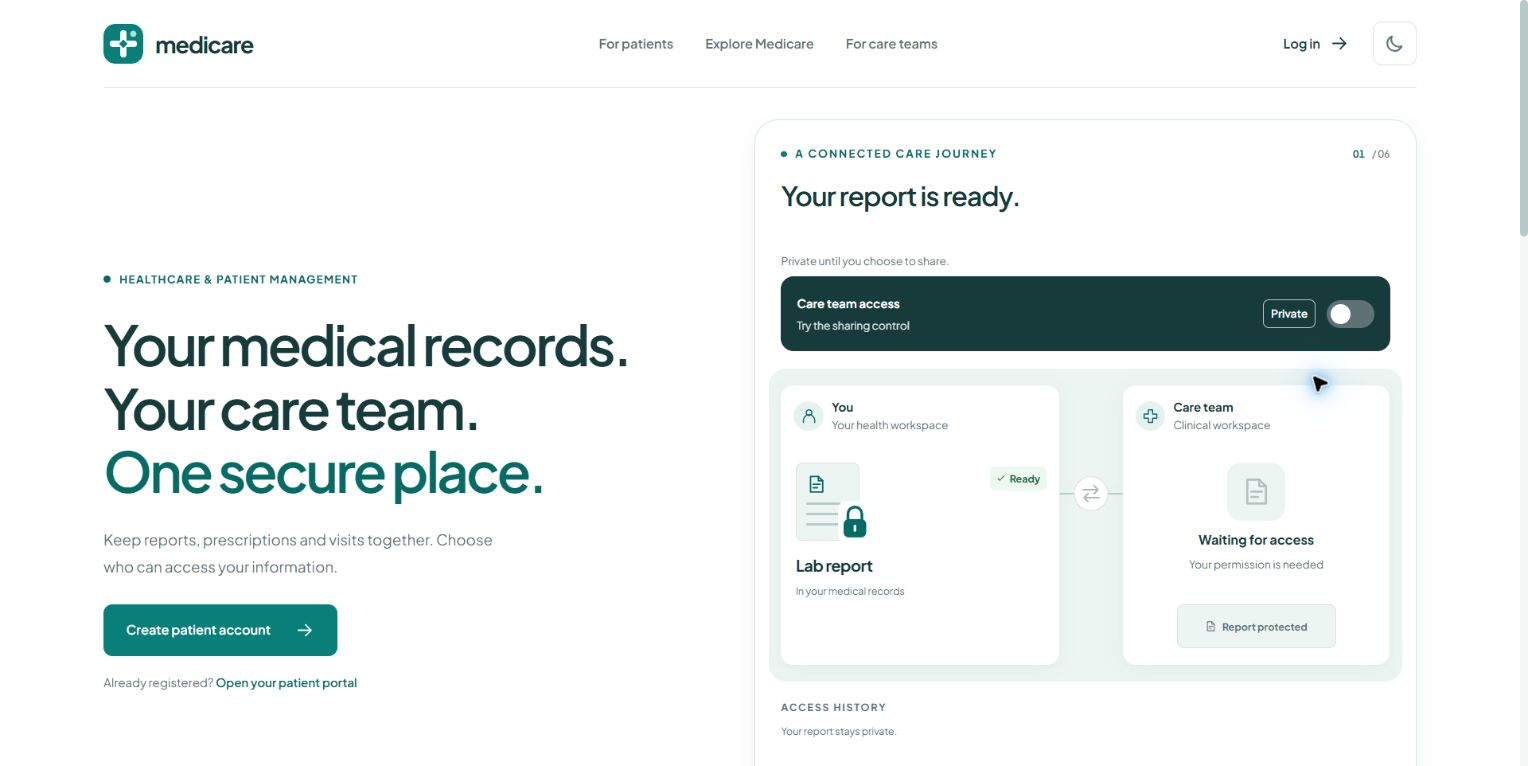
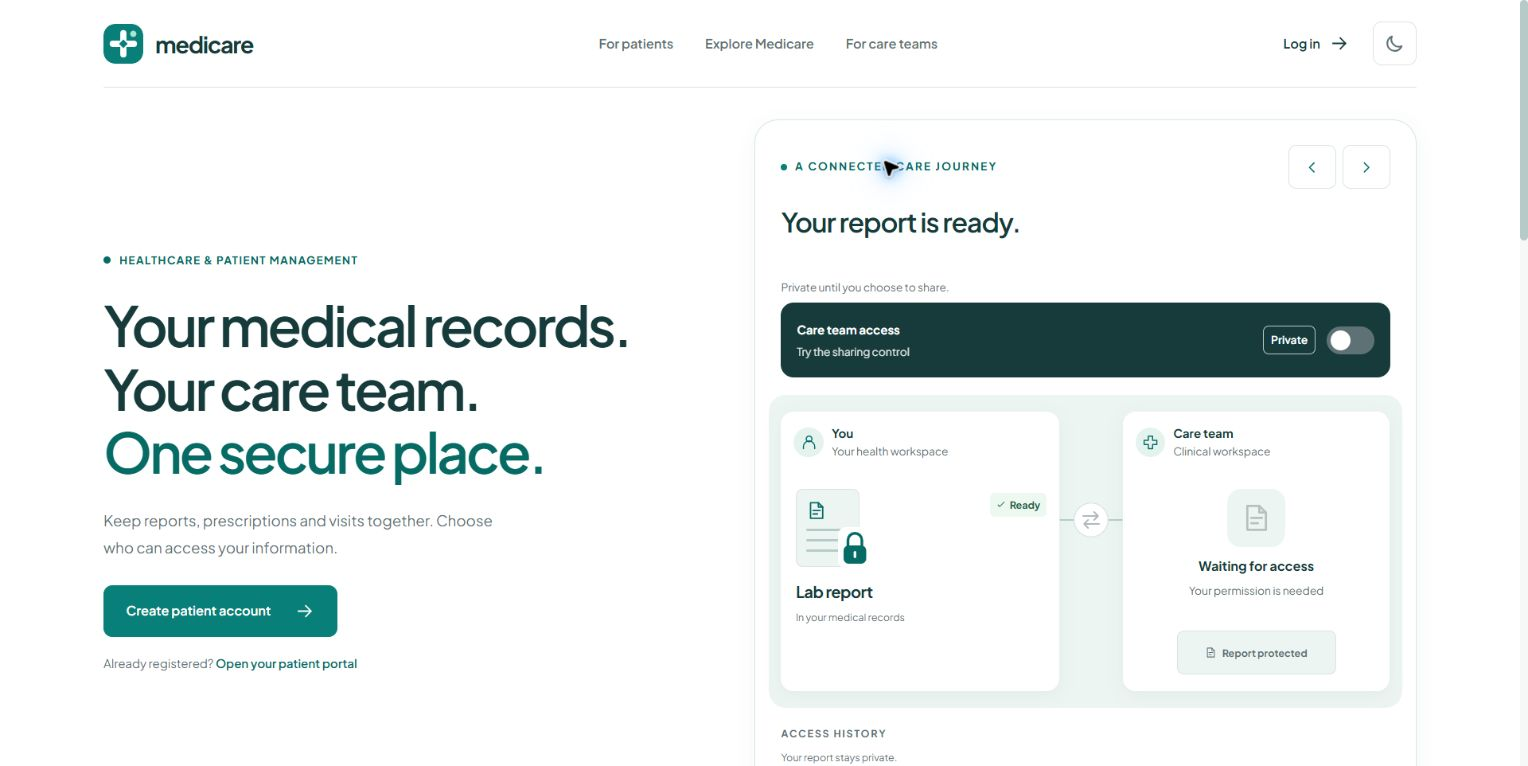
Refresh homepage navigation documentation and preview

diff --git a/docs/design/homepage-motion.md b/docs/design/homepage-motion.md
@@ -9,9 +9,9 @@ For release, this introduction is added ahead of the existing homepage content. 
 - **Recognition:** familiar report, patient, clinician, switch and lock controls explain the product through actions. The same report remains visible throughout.
 - **Hierarchy:** one primary action creates a patient account. Existing patients have a portal link; care teams have a separate sign-in section. Each uses the existing account routes.
 - **Progressive disclosure:** one workflow occupies the hero. The existing carousel below it presents one illustrated feature at a time, followed by the original three onboarding steps.
-- **Control and feedback:** visitors can change sharing, open the illustrated report, pause or replay. Taking control stops autoplay. Labels and access history explain state independently of color. The three chapter shortcuts and duplicate hero badges/link are removed.
+- **Control and feedback:** boxed previous/next chevrons occupy the top-right corner, replacing the numerical step counter and bottom playback bar. Navigation wraps through all six steps. Pointer navigation restarts the one-second hold and continues autoplay; keyboard navigation holds the selected step until focus leaves the illustration. Direct sharing/report interactions stay in manual mode until an arrow is used. Labels and access history explain state independently of color.
 - **Consistency:** the existing Brand, ThemeToggle, Plus Jakarta Sans and semantic Medicare tokens supply typography, colors, light/dark surfaces, focus styling and elevation. No new dependency or competing palette is introduced.
-- **Accessibility:** controls have names and visible focus, keyboard actions suppress immediate motion, the switch has a larger hit area, and playback controls have 44px targets. Reduced-motion preference disables autoplay and decorative motion while preserving manual exploration. Offscreen or background playback stops. Future history events remain hidden from assistive technology.
+- **Accessibility:** controls have names and visible focus, keyboard actions suppress immediate motion, the switch has a larger hit area, and both navigation arrows have at least 44px targets. Reduced-motion preference disables autoplay and decorative motion while preserving manual exploration through the arrows and sharing controls. Offscreen or background playback stops. Future history events remain hidden from assistive technology.
 - **Truthful behavior:** withdrawal blocks future requests; it never removes the patient's original report or pretends to recall information already received. These public illustration controls never modify account permissions or access patient data.
 - **Responsive composition:** the animation adapts to its container; the homepage becomes a single column on smaller screens. Care cards share their top edge and height. The care-team content has reserved text rows, centered icons and a stable action width, with bottom padding and a 48px-high action on narrow screens so wrapping labels do not move the layout.
 
@@ -23,7 +23,7 @@ The report lock follows the user's physical padlock reference through three pose
 
 The two legs have different insertion depths: the free end finishes at SVG y=19 and the retained leg at y=27. After lifting, the retained leg still reaches y=20 inside the body, whose top is y=17. The swivel axis stays at x=24. Non-scaling stroke keeps the shackle visible during the edge-on part of the turn. After a 540ms lead-in, the report copy travels to the clinician over 440ms, finishing at 980ms. The original report and recorded view remain in place when future access is withdrawn.
 
-The transfer uses container-relative transform distances, so it crosses the cards on both desktop and phone layouts instead of moving a few pixels inside the connector. Lock transitions remain interruptible. The automatic file sequence pauses with playback; reduced-motion and keyboard interactions show the resulting state immediately. Movement uses transforms and opacity; no layout properties animate.
+The transfer uses container-relative transform distances, so it crosses the cards on both desktop and phone layouts instead of moving a few pixels inside the connector. Lock transitions remain interruptible. The automatic file sequence pauses when the illustration is offscreen, the tab is hidden or keyboard focus holds a step; reduced-motion and keyboard interactions show the resulting state immediately. Movement uses transforms and opacity; no layout properties animate.
 
 The report carries the scene's only lock. The permission header, patient header, clinician preview, button and history avoid repeating it. The connector uses a circular transfer badge set into a softly tinted channel, with short docking leads that align with the cards. Its contrast increases when access is approved. The sharing switch separates its 48×28px pill track and 20px thumb from its 48×44px button hit area. This preserves the standard switch shape under the application's global minimum button height. Desktop and 390px browser checks verified both thumb positions, one lock and no phone-width horizontal overflow.
 
@@ -50,3 +50,5 @@ Three-pose verification on 2026-11-01: the 11 care-journey tests, component lint
 Release validation against current production: all 110 frontend tests across 23 files, full frontend lint, the shared-theme check and the production build passed. The integration test checks that the sharing introduction precedes the retained feature carousel and that the original onboarding and both audience entry routes remain present. Browser review covered the combined desktop layout, carousel navigation, closing invitation, light/dark tokens and a 390px layout with one H1, one carousel and no horizontal overflow. The release modifies only the seven homepage-related files; no backend or database changes are included.
 
 Current cleanup verification: 23 homepage, journey and carousel tests passed; ESLint, shared-theme checks and the production build passed. Browser review at 360px, 390px and 810px confirmed no horizontal overflow, equal care-card heights and top edges, centered 48px-high actions and consistent bottom insets in both allowed and protected states.
+
+Arrow-navigation verification: 26 targeted homepage, care-journey and carousel checks passed, with strict frontend lint, the shared-theme check and the production build. Regressions cover both wrap directions, one-second timer reset, pointer autoplay after focus, keyboard holds and blur resume, reduced motion and history reset. Browser review at 320px, 360px, 390px and 810px found no overflow or header overlap, with 44px navigation targets and matching care-card alignment. Pointer navigation continued advancing automatically; both shared themes were reviewed.
